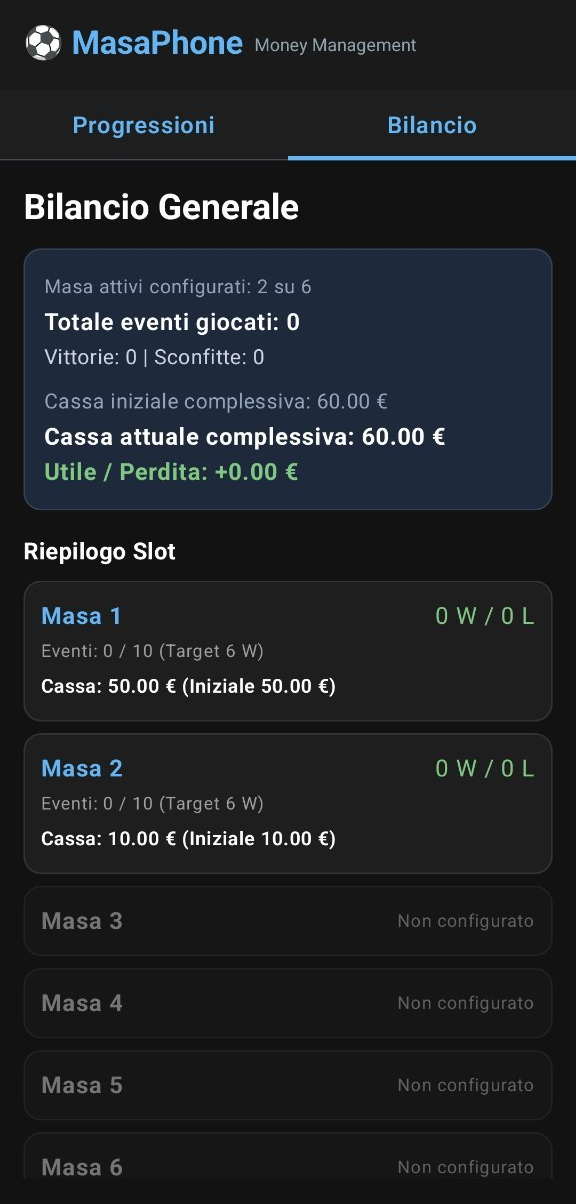
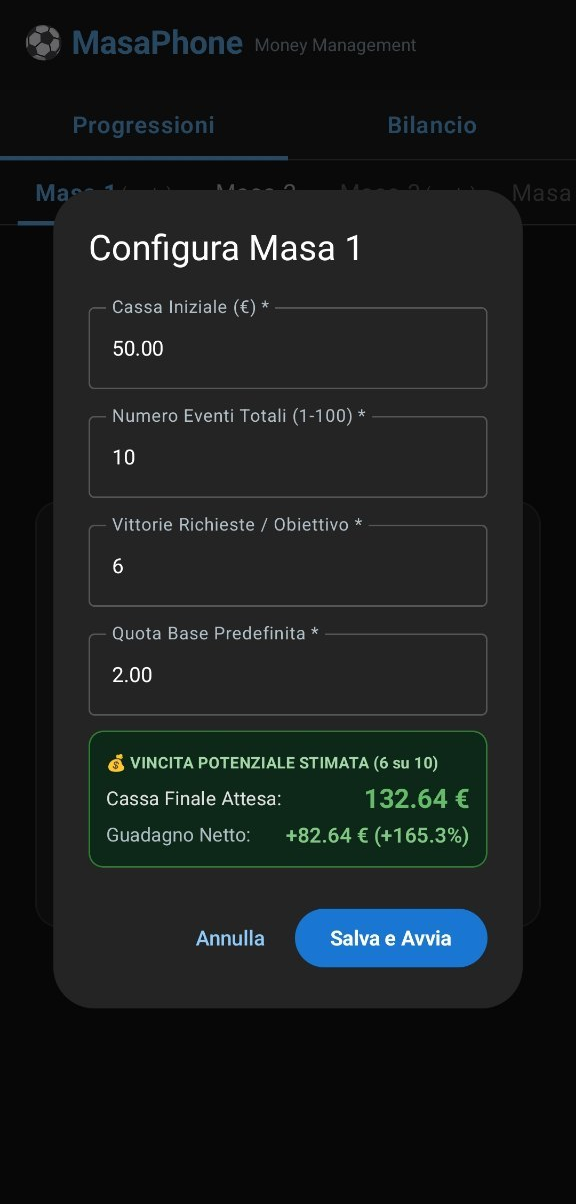
fix: swap screenshots 2 & 4 to match captions and refine beer badge border

diff --git a/README.md b/README.md
@@ -117,7 +117,7 @@ Se trovi utile **MasaPhone** e desideri supportare lo sviluppo con una birra:
 <div align="center">
 
 <a href="https://paypal.me/ReLizard" target="_blank">
-  <img src="images/beer.png" alt="Offrimi una birra" width="220" />
+  <img src="images/beer.png" alt="Offrimi una birra" width="200" />
 </a>
 
 <p><em>Grazie di cuore per il tuo supporto!</em> 🍻</p>
